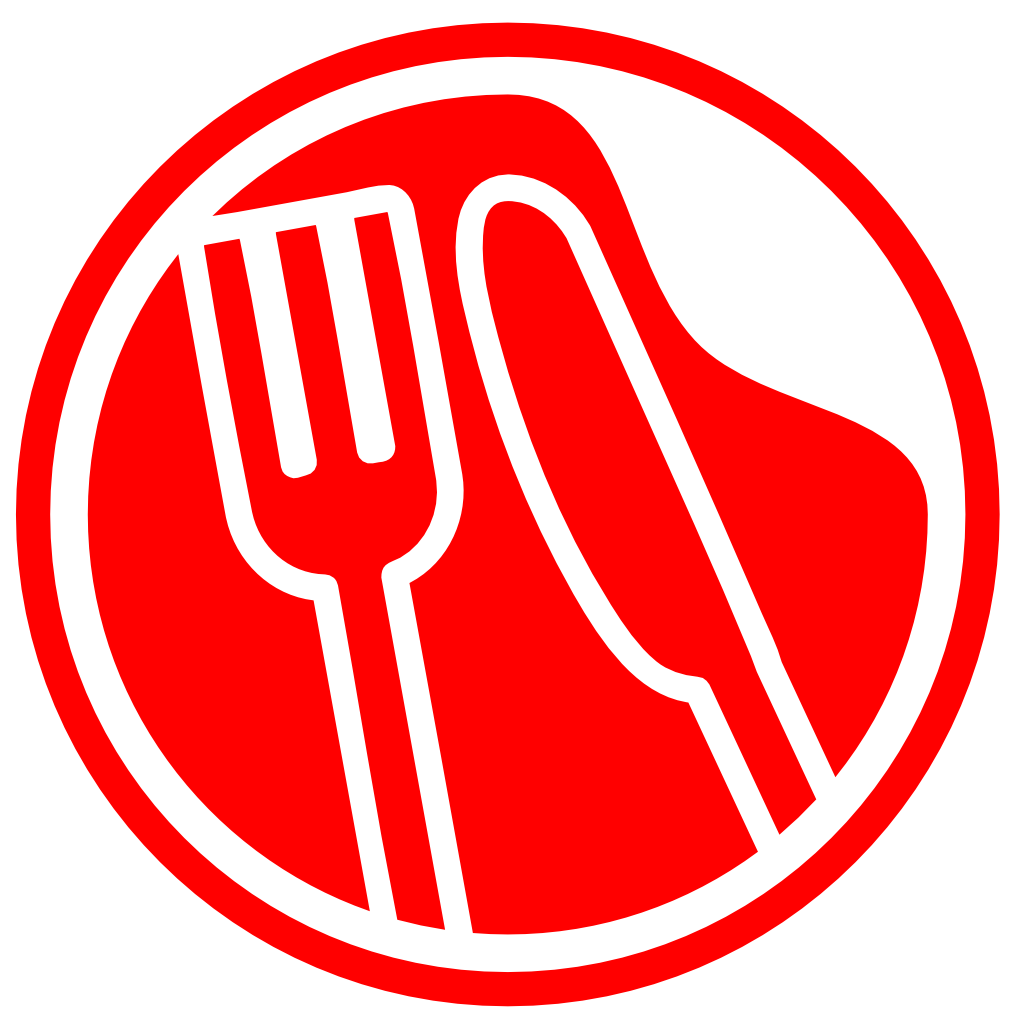
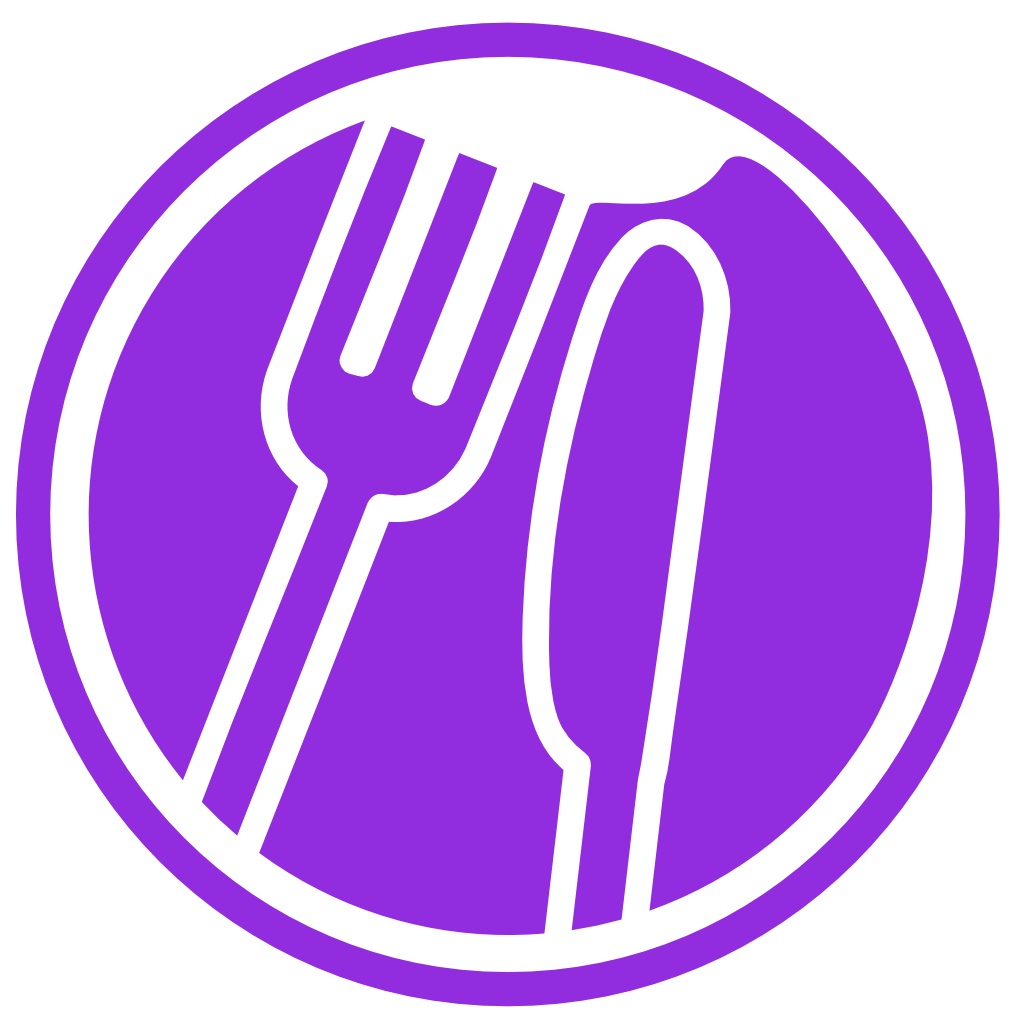
Changed branding to purple

diff --git a/src/pages/welcome/welcome.html b/src/pages/welcome/welcome.html
@@ -16,65 +16,78 @@
 <ion-content>
   <ion-slides pager paginationType='bullets'>
     <ion-slide>
-      <img src="assets/imgs/icon.png">
-      <h2>Welcome to Cena Family</h2>
-      <p>We are Cenafood and we need Your help. my eirmod tempor invidunt ut labore et dolore magna aliquyam erat, sed diam
-        voluptua. At vero eos et accusam et justo duo dolores et ea rebum. Stet clita kasd gubergren, no se
-      </p>
+      <ion-row>
+        <ion-col>
+          <img src="assets/imgs/CenaAI.png">
+          <h2>Welcome to Cena Family</h2>
+          <p>We are Cenafood and we need Your help. my eirmod tempor invidunt ut labore et dolore magna aliquyam erat, sed
+            diam voluptua. At vero eos et accusam et justo duo dolores et ea rebum. Stet clita kasd gubergren, no se
+          </p>
+        </ion-col>
+      </ion-row>
     </ion-slide>
 
     <ion-slide>
-      <img src="assets/imgs/IllustrationLike.png" />
-      <h1>Mhmm</h1>
-      <p>If you like what you see and it is acually food. Swipe Right.</p>
+      <ion-row>
+        <ion-col>
+          <img src="assets/imgs/IllustrationLike.png" />
+          <h1>Mhmm</h1>
+          <p>If you like what you see and it is acually food. Swipe Right.</p>
+        </ion-col>
+      </ion-row>
     </ion-slide>
 
     <ion-slide>
-      <img src="assets/imgs/IllustrationDislike.png" />
-      <h1>Yuk!</h1>
-      <p>If you dislike what you see and it is acually food. Swipe Left.</p>
+      <ion-row>
+        <ion-col>
+          <img src="assets/imgs/IllustrationDislike.png" />
+          <h1>Yuk!</h1>
+          <p>If you dislike what you see and it is acually food. Swipe Left.</p>
+        </ion-col>
+      </ion-row>
     </ion-slide>
 
     <ion-slide>
-
-      <img src="assets/imgs/IllustrationNoFood.png" />
-
-      <h1>What?</h1>
-      <p>If you see something that is not food, something unidentifyable swipe up or down.</p>
-
+      <ion-row>
+        <ion-col>
+          <img src="assets/imgs/IllustrationNoFood.png" />
+          <h1>What?</h1>
+          <p>If you see something that is not food, something unidentifyable swipe up or down.</p>
+        </ion-col>
+      </ion-row>
     </ion-slide>
 
     <ion-slide>
-        <ion-segment [(ngModel)]="authType" color="primary">
-            <ion-segment-button value="login">
-              Log In
-            </ion-segment-button>
-            <ion-segment-button value="signup">
-              Sign Up
-            </ion-segment-button>
-          </ion-segment>
-        
-          <form #signForm="ngForm" (ngSubmit)="authenticate(signForm.value)">
-            <ion-item>
-              <ion-label>Email</ion-label>
-              <ion-input type="text" name="email" ngModel></ion-input>
-            </ion-item>
-        
-            <ion-item>
-              <ion-label>Password</ion-label>
-              <ion-input type="password" name="password" ngModel></ion-input>
-            </ion-item>
-        
-            <ion-card color="danger" *ngIf="auth.error">
-              <ion-card-content>
-                {{auth.error}}
-              </ion-card-content>
-            </ion-card>
-        
-            <div padding>
-              <button ion-button block type="submit">Get Started!</button>
-            </div>
-          </form>
+      <ion-segment [(ngModel)]="authType" color="primary">
+        <ion-segment-button value="login">
+          Log In
+        </ion-segment-button>
+        <ion-segment-button value="signup">
+          Sign Up
+        </ion-segment-button>
+      </ion-segment>
+
+      <form #signForm="ngForm" (ngSubmit)="authenticate(signForm.value)">
+        <ion-item>
+          <ion-label>Email</ion-label>
+          <ion-input type="text" name="email" ngModel></ion-input>
+        </ion-item>
+
+        <ion-item>
+          <ion-label>Password</ion-label>
+          <ion-input type="password" name="password" ngModel></ion-input>
+        </ion-item>
+
+        <ion-card color="danger" *ngIf="auth.error">
+          <ion-card-content>
+            {{auth.error}}
+          </ion-card-content>
+        </ion-card>
+
+        <div padding>
+          <button ion-button block type="submit">Get Started!</button>
+        </div>
+      </form>
     </ion-slide>
   </ion-slides>
 </ion-content>

diff --git a/src/theme/variables.scss b/src/theme/variables.scss
@@ -34,11 +34,17 @@ $app-direction: ltr;
 // The "primary" color is the only required color in the map.
 
 $colors: (
-  primary:    #b80808,
-  secondary:  #32db64,
+  primary:    #922cdf,
+  secondary:  #de8ea0,
   danger:     #f53d3d,
-  light:      #f4f4f4,
-  dark:       #222,
+  light:      #f4f4ef,
+  dark:       #1f2b58,
+
+  lightshade: #f4f4ef,
+  lightaccent: #de8ea0,
+  mainbrandcolor: #922cdf,
+  darkaccent: #82669b,
+  darkshades: #1f2b58,
 
   like:       rgb(29, 197, 29),
   dislike:    rgb(230, 21, 21),

diff --git a/src/pages/about/about.ts b/src/pages/about/about.ts
@@ -1,4 +1,3 @@
-import { WelcomePage } from './../welcome/welcome';
 import { Component } from '@angular/core';
 import { NavController, App } from 'ionic-angular';
 import { AuthProvider } from '../../providers/auth/auth';
@@ -15,6 +14,6 @@ export class AboutPage {
 
   private logout(){
     this.auth.logout();
-    this.app.getRootNav().setRoot(WelcomePage);
+    this.app.getRootNav().setRoot('WelcomePage');
   }
 }

diff --git a/src/pages/tabs/tabs.ts b/src/pages/tabs/tabs.ts
@@ -5,7 +5,6 @@ import { Component } from '@angular/core';
 import { AboutPage } from '../about/about';
 import { DiscoverPage } from './../discover/discover';
 import { AuthProvider } from '../../providers/auth/auth';
-import { Storage } from '@ionic/storage';
 
 @Component({
   templateUrl: 'tabs.html'
